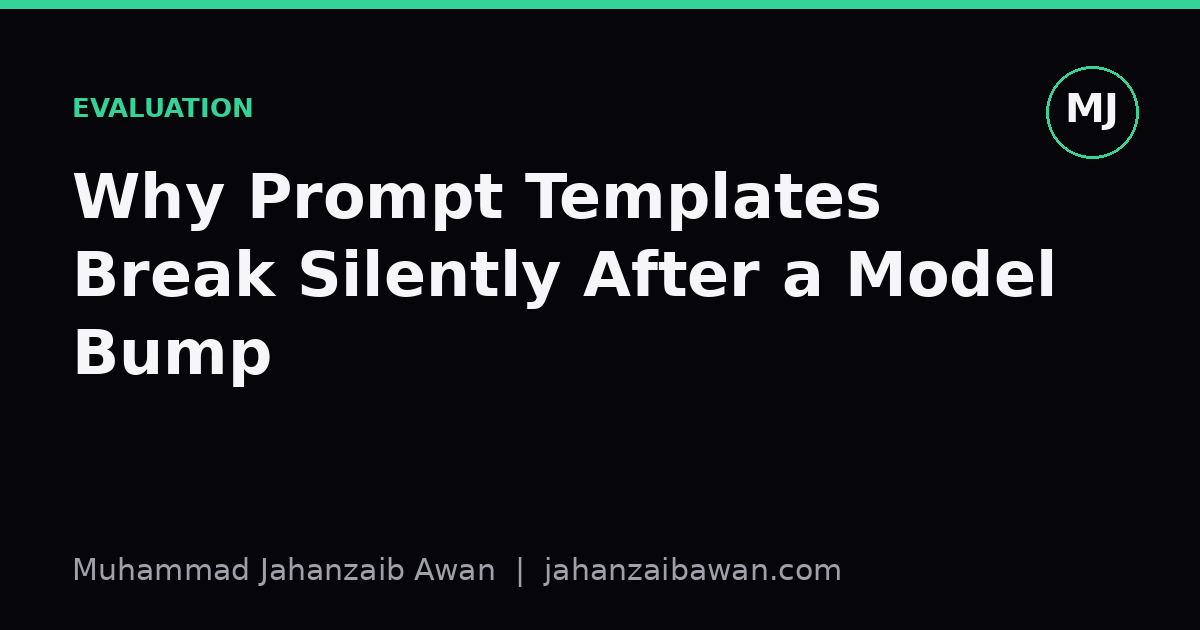
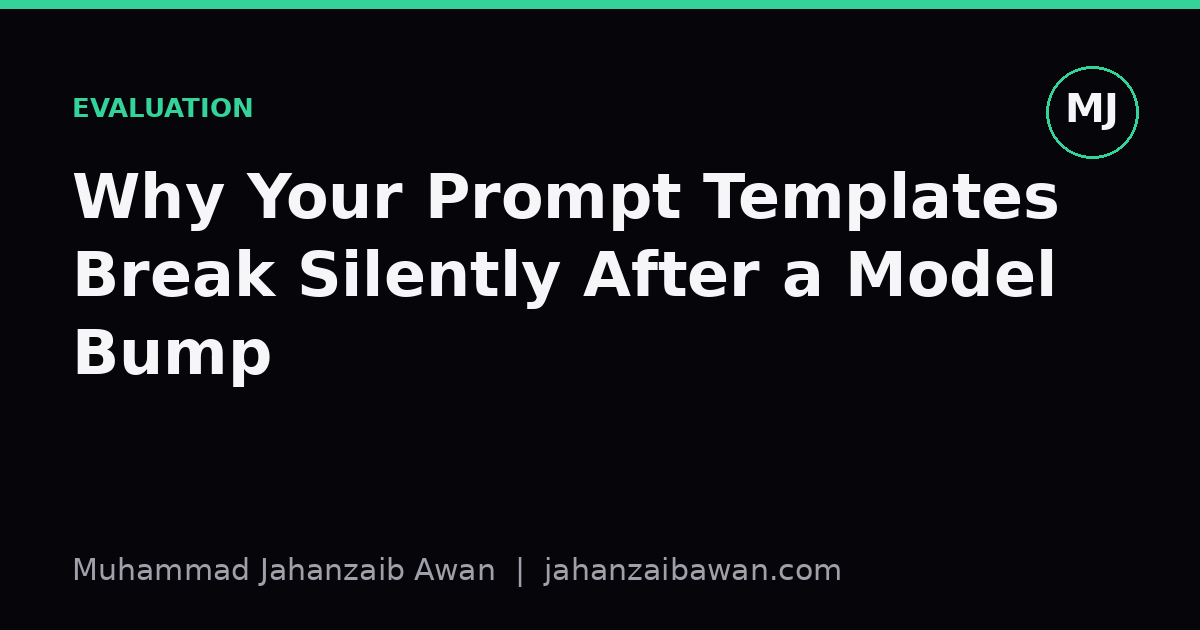
chore: auto blog post (2026-11-11)

Changed region(s): [[0.185, 0.2714, 0.8942, 0.3619]]

diff --git a/blog/prompt-templates-break-silently.html b/blog/prompt-templates-break-silently.html
@@ -3,21 +3,21 @@
 <head>
 <meta charset="UTF-8">
 <meta name="viewport" content="width=device-width, initial-scale=1.0">
-<title>Why Prompt Templates Break Silently After a Model Bump | Muhammad Jahanzaib Awan</title>
-<meta name="description" content="An examination of why prompt templates degrade silently after model updates, and how leakage-aware evaluation habits catch the drift before users do.">
+<title>Why Your Prompt Templates Break Silently After a Model Bump | Muhammad Jahanzaib Awan</title>
+<meta name="description" content="Why prompt templates degrade silently after a model version upgrade, and how leakage-aware, format-sensitive evaluation catches it before users do.">
 <meta name="author" content="Muhammad Jahanzaib Awan">
-<meta name="keywords" content="prompt engineering, LLM evaluation, prompt drift, model versioning, regression testing, NLP reliability, silent failure, model updates, Jahanzaib, Jahanzaib Awan, Muhammad Jahanzaib, Muhammad Jahanzaib Awan">
+<meta name="keywords" content="prompt engineering, prompt templates, LLM evaluation, model drift, regression testing, prompt brittleness, model versioning, NLP evaluation, Jahanzaib, Jahanzaib Awan, Muhammad Jahanzaib, Muhammad Jahanzaib Awan">
 <meta name="robots" content="index, follow, max-image-preview:large, max-snippet:-1">
 <meta property="og:type" content="article">
 <meta property="article:published_time" content="2026-11-11">
 <meta property="og:site_name" content="Muhammad Jahanzaib Awan">
-<meta property="og:title" content="Why Prompt Templates Break Silently After a Model Bump">
-<meta property="og:description" content="An examination of why prompt templates degrade silently after model updates, and how leakage-aware evaluation habits catch the drift before users do.">
+<meta property="og:title" content="Why Your Prompt Templates Break Silently After a Model Bump">
+<meta property="og:description" content="Why prompt templates degrade silently after a model version upgrade, and how leakage-aware, format-sensitive evaluation catches it before users do.">
 <meta property="og:image" content="https://jahanzaibawan.com/assets/blog/prompt-templates-break-silently.png">
 <meta property="og:url" content="https://jahanzaibawan.com/blog/prompt-templates-break-silently.html">
 <meta property="og:locale" content="en_GB">
 <meta name="twitter:card" content="summary_large_image">
-<meta name="twitter:title" content="Why Prompt Templates Break Silently After a Model Bump">
+<meta name="twitter:title" content="Why Your Prompt Templates Break Silently After a Model Bump">
 <meta name="twitter:image" content="https://jahanzaibawan.com/assets/blog/prompt-templates-break-silently.png">
 <link rel="canonical" href="https://jahanzaibawan.com/blog/prompt-templates-break-silently.html">
 <link rel="alternate" type="application/rss+xml" title="Muhammad Jahanzaib Awan — Writing" href="https://jahanzaibawan.com/feed.xml">
@@ -29,8 +29,8 @@
 {
   "@context": "https://schema.org",
   "@type": "BlogPosting",
-  "headline": "Why Prompt Templates Break Silently After a Model Bump",
-  "description": "An examination of why prompt templates degrade silently after model updates, and how leakage-aware evaluation habits catch the drift before users do.",
+  "headline": "Why Your Prompt Templates Break Silently After a Model Bump",
+  "description": "Why prompt templates degrade silently after a model version upgrade, and how leakage-aware, format-sensitive evaluation catches it before users do.",
   "url": "https://jahanzaibawan.com/blog/prompt-templates-break-silently.html",
   "image": "https://jahanzaibawan.com/assets/blog/prompt-templates-break-silently.png",
   "datePublished": "2026-11-11",
@@ -49,7 +49,7 @@
   "itemListElement": [
     { "@type": "ListItem", "position": 1, "name": "Home", "item": "https://jahanzaibawan.com/" },
     { "@type": "ListItem", "position": 2, "name": "Writing", "item": "https://jahanzaibawan.com/blog.html" },
-    { "@type": "ListItem", "position": 3, "name": "Why Prompt Templates Break Silently After a Model Bump", "item": "https://jahanzaibawan.com/blog/prompt-templates-break-silently.html" }
+    { "@type": "ListItem", "position": 3, "name": "Why Your Prompt Templates Break Silently After a Model Bump", "item": "https://jahanzaibawan.com/blog/prompt-templates-break-silently.html" }
   ]
 }
 </script>
@@ -63,13 +63,13 @@
   <div class="phero">
     <a class="back" href="../blog.html">← All writing</a>
     <div class="tag">Evaluation · 5 min read · 11 Nov 2026</div>
-    <h1>Why Prompt Templates Break Silently After a Model Bump</h1>
-    <p class="lede">A prompt that scored well last month can quietly degrade when the underlying model changes, and nothing in your logs will shout about it.</p>
+    <h1>Why Your Prompt Templates Break Silently After a Model Bump</h1>
+    <p class="lede">A prompt that worked perfectly on one model version can quietly degrade on the next, and your evaluation suite often will not tell you until a user does.</p>
   </div>
 
-  <img src="../assets/blog/prompt-templates-break-silently.png" alt="Cover image for the article: Why Prompt Templates Break Silently After a Model Bump" style="width:100%;height:auto;border-radius:14px;border:1px solid var(--line2);margin:6px 0 20px;display:block">
+  <img src="../assets/blog/prompt-templates-break-silently.png" alt="Cover image for the article: Why Your Prompt Templates Break Silently After a Model Bump" style="width:100%;height:auto;border-radius:14px;border:1px solid var(--line2);margin:6px 0 20px;display:block">
 
-<section class='psec reveal'><h2>The failure mode nobody logs</h2><p>Most engineering failures announce themselves. A service returns a 500, a container restarts, a dashboard turns red. Prompt template failures after a model version bump are different: the API call still succeeds, the response is still well formed text, and nothing in your error monitoring fires. The output is simply worse in a way that only shows up when a human reads it carefully, or when a downstream metric drifts over weeks rather than seconds.</p><p>This matters because prompt templates are brittle in a specific way that code is not. A function either compiles or it does not. A prompt is a set of instructions interpreted by a statistical model, and that interpretation depends on training data, fine tuning choices, and alignment tuning that you do not control and often cannot see. When the provider swaps the model behind an endpoint, or you upgrade to a newer version for cost or speed reasons, you are not patching a dependency. You are replacing the thing that reads your instructions with a different reader.</p><p>I think of this as an evaluation problem disguised as a prompting problem. People reach for prompt tweaks, adding more emphasis, more examples, more capitalised words, when the real issue is that they never had a test suite that would have caught the regression in the first place. The fix is not a better prompt. It is a better harness around the prompt.</p></section><section class='psec reveal'><h2>A worked example of silent drift</h2><p>Suppose you have a template that extracts a delivery date from a customer email and returns it in ISO format, instructed with a single line: "Extract the delivery date and return only YYYY-MM-DD." On the older model, this worked reliably across a few hundred manually checked emails, say ninety seven out of a hundred correct, with the three failures being genuinely ambiguous emails that mentioned two dates.</p><p>You bump to the newer version of the same model family because it is cheaper per token. Nothing in your integration tests changes, because your integration tests check that the response matches a date pattern, not that the date is correct. The new model is slightly more conversational by default and starts returning "The delivery date is 2024-03-15" instead of just the date. Your regex still extracts a date shaped string because it is embedded in the sentence, so the test passes. But now imagine the model also became subtly more willing to guess a date from vague phrasing like "sometime next week" rather than flagging it as ambiguous. Accuracy on the ambiguous cases does not improve, it gets worse, because the new model confidently invents a specific date instead of declining. Your pattern matching test never sees this because it only checks format, not correctness, and your overall accuracy quietly drops from ninety seven percent to something like ninety one percent, invisible unless you rerun your labelled set.</p><p>The insidious part is that ninety one percent still looks fine on a dashboard that only tracks "did we get a parseable date back." The metric that would show the regression, correctness against ground truth, is the one nobody re-measured after the bump, because re-measuring felt unnecessary: the prompt did not change, so why would the result change.</p></section><figure style='margin:24px 0'><img src='../assets/blog/body/prompt-templates-break-silently-1.jpg' alt='whiteboard with equations' loading='lazy' style='width:100%;height:auto;border-radius:12px;border:1px solid var(--line2);display:block'></figure><section class='psec reveal'><h2>Why this is really a leakage and baseline problem</h2><p>The deeper issue is that most prompt evaluation setups have no proper held out test set that gets rerun on every model change, in the same way that a machine learning team would rerun a validation set after retraining. When you tested your template originally, you likely iterated on the same handful of examples you used to judge it, tweaking wording until those examples passed. That is leakage in the same sense as tuning hyperparameters on your test set: the prompt is overfit to the examples you happened to eyeball, not to the underlying task.</p><p>A model version bump exposes this overfitting instantly, because the new model does not share whatever quirks the old model had that your prompt was implicitly compensating for. If your original prompt worked partly because the old model had a bias towards short, literal answers, and you never tested against cases that would expose different behaviour, you had no way of knowing your success was partly luck of the model, not robustness of the prompt.</p><p>The practical fix mirrors standard machine learning hygiene: keep a fixed, reasonably sized labelled evaluation set that you never used to write the prompt, store the exact model version and prompt text alongside every evaluation run, and treat any model swap, even a minor version number change, as a trigger to rerun that evaluation before deploying. This is not exotic advice, it is the same discipline as not touching your test set until the end of a project, just applied to prompts instead of model weights.</p><p>It also helps to separate format checks from correctness checks explicitly. A test that only verifies the shape of the output, like "is this valid JSON" or "does this match a date pattern", will survive almost any model change and give false confidence. A test that checks the content against known correct answers is the one that actually catches drift, and it is worth the extra effort to build even a small set of forty or fifty hand labelled cases rather than relying on format checks alone.</p></section><section class='psec reveal'><h2>What to actually do about it</h2><p>Treat every prompt template as a small model with its own regression suite. Before switching model versions, run the fixed evaluation set and compare accuracy, not just pass rate on format. Log the model identifier string with every production response, so that if quality complaints come in, you can correlate them with a specific version rather than guessing weeks later which update caused the problem.</p><p>Build a handful of deliberately adversarial or ambiguous cases into your evaluation set, not just clean examples. These are the ones most likely to expose behavioural shifts, because models tend to diverge most on edge cases rather than easy ones. Finally, resist the urge to patch a regression with more prompt text the moment you notice it. First confirm with your evaluation set that the new wording actually fixes the underlying error rate rather than just fixing the one example you happened to notice, otherwise you are back to overfitting the prompt to a single case and setting up the next silent failure.</p></section><figure style='margin:24px 0'><img src='../assets/blog/body/prompt-templates-break-silently-2.jpg' alt='server rack blinking lights' loading='lazy' style='width:100%;height:auto;border-radius:12px;border:1px solid var(--line2);display:block'></figure>
+<section class='psec reveal'><h2>The problem hides behind a passing eyeball test</h2><p>You write a prompt template, run it against a handful of examples, the outputs look sensible, and you ship it. Three months later the model provider bumps a version, you redeploy without a second thought, and somewhere in your logs the outputs have quietly shifted shape. Not catastrophically wrong, just different enough that downstream parsing breaks, or a tone that used to be concise now rambles, or a JSON field that used to always appear now sometimes gets omitted. Nobody notices for days because nothing threw an error. The system kept running, just slightly worse.</p><p>This is the core issue with prompt templates: they are not code in the traditional sense, they are instructions aimed at a statistical system whose behaviour depends on training data, fine-tuning choices, and safety tuning that you do not control and often cannot see. A prompt is a contract negotiated with a specific model checkpoint. When the checkpoint changes, the contract is renegotiated whether you asked for it or not, and the new terms are rarely documented in a way that maps cleanly onto your use case.</p><p>The reason this breaks silently rather than loudly is that most teams evaluate prompts the way they evaluate a feature: run it a few times, read the outputs, decide it looks fine. That is a vibe check, not a measurement. A vibe check cannot detect a five percent shift in how often the model includes a required field, because five percent of outputs looking fine is exactly what a human skimming ten examples expects to see even when the underlying rate has moved.</p></section><section class='psec reveal'><h2>A concrete case: the JSON field that goes missing</h2><p>Suppose you have a template asking a model to extract a customer complaint into a structured object with fields for category, sentiment, and a one-line summary. On the old model version, across a held-out set of two hundred real complaints, the summary field was present and non-empty in ninety-eight percent of outputs. You built a lightweight parser downstream that assumes the field exists, with a fallback that logs a warning if it does not. Fine, two percent failure is tolerable, the warnings barely fire.</p><p>After the version bump, you rerun the same two hundred examples. The category and sentiment fields are still reliably present, but the summary field now gets replaced by a longer explanatory paragraph in about fifteen percent of cases, because the new model has a stronger tendency to add caveats and context around its structured answers unless explicitly told not to. Your parser's fallback logs a warning for each of those, but nobody is watching that log in real time, so the warning rate climbs from two percent to fifteen percent and sits there unnoticed. Fifteen percent of customer complaints are now silently losing their summary field, and a human downstream has to manually reconstruct it, which they eventually notice is happening a lot without quite knowing why.</p><p>The fix, once you see it, is almost embarrassingly simple: add an explicit instruction and a stricter output constraint, then re-measure. But you only find the fix because you measured the field presence rate as a number on a fixed test set, compared old versus new, and saw fifteen percent instead of two percent. If you had just read ten outputs and nodded, you would have seen summaries in all ten, because fifteen percent failure means roughly eight and a half out of ten still succeed, and a small eyeball sample cannot reliably distinguish two percent from fifteen percent.</p></section><figure style='margin:24px 0'><img src='../assets/blog/body/prompt-templates-break-silently-1.jpg' alt='magnifying glass over document' loading='lazy' style='width:100%;height:auto;border-radius:12px;border:1px solid var(--line2);display:block'></figure><section class='psec reveal'><h2>Why this is a measurement problem, not a prompting problem</h2><p>The deeper issue is that prompt behaviour is probabilistic and version-dependent, so the only honest way to detect regressions is a fixed evaluation set with fixed metrics, run before and after every version change, with no peeking at the new model's outputs before you decide what counts as success. If you design your test cases after looking at how the new model responds, you have leaked information from the thing you are trying to measure into the measurement itself, and your evaluation will flatter whichever version you tuned it against.</p><p>A practical setup looks like this: keep a held-out set of realistic inputs, ideally pulled from actual production traffic rather than hand-crafted examples, since hand-crafted examples tend to be cleaner than reality and hide exactly the messy edge cases where formatting drifts first. Define metrics that are structural rather than purely qualitative where possible: field presence rate, schema validity rate, length distribution, refusal rate. These are boring, cheap to compute, and brutally effective at catching silent drift because they do not depend on subjective judgement.</p><p>Run that same set against the old and new model version with the identical template, and diff the metrics, not just the text. A twelve-point drop in schema validity is a clear signal even if every individual output still reads as plausible English. Treat any such regression as a blocking issue, the same way you would treat a failing unit test, rather than something to investigate later. If you only have time to do one thing, do this one, because it converts a vague worry about model drift into a specific, falsifiable comparison, and specific falsifiable comparisons are the only thing that reliably prevents silent regressions from reaching users.</p></section><section class='psec reveal'><h2>The practical takeaway</h2><p>Prompt templates are brittle not because prompting is flawed as a technique, but because they are evaluated too informally relative to how much they are trusted. Treat every model version bump as a deployment of a new, untested component, run your fixed held-out set through it, compare structural metrics rather than impressions, and only ship the update once the numbers, not the vibe, say it is safe. The discipline is unglamorous, but it is the difference between catching a regression in a test run and catching it from a confused customer.</p></section><figure style='margin:24px 0'><img src='../assets/blog/body/prompt-templates-break-silently-2.jpg' alt='server rack warning light' loading='lazy' style='width:100%;height:auto;border-radius:12px;border:1px solid var(--line2);display:block'></figure>
 
   <div class="pnav">
     <a href="../blog.html">← All writing</a>

diff --git a/blog.html b/blog.html
@@ -36,7 +36,7 @@
   "author": { "@type": "Person", "name": "Muhammad Jahanzaib Awan", "url": "https://jahanzaibawan.com/" },
   "publisher": { "@type": "Person", "name": "Muhammad Jahanzaib Awan" },
   "blogPost": [
-    { "@type": "BlogPosting", "headline": "Why Prompt Templates Break Silently After a Model Bump", "url": "https://jahanzaibawan.com/blog/prompt-templates-break-silently.html", "datePublished": "2026-11-11", "author": { "@type": "Person", "@id": "https://jahanzaibawan.com/#person", "name": "Muhammad Jahanzaib Awan" } },
+    { "@type": "BlogPosting", "headline": "Why Your Prompt Templates Break Silently After a Model Bump", "url": "https://jahanzaibawan.com/blog/prompt-templates-break-silently.html", "datePublished": "2026-11-11", "author": { "@type": "Person", "@id": "https://jahanzaibawan.com/#person", "name": "Muhammad Jahanzaib Awan" } },
     { "@type": "BlogPosting", "headline": "What an Evaluation Harness Should Log Beyond the Score", "url": "https://jahanzaibawan.com/blog/beyond-the-final-score.html", "datePublished": "2026-11-10", "author": { "@type": "Person", "@id": "https://jahanzaibawan.com/#person", "name": "Muhammad Jahanzaib Awan" } },
     { "@type": "BlogPosting", "headline": "Grouped and Stratified Splits: Picking the Right One", "url": "https://jahanzaibawan.com/blog/grouped-and-stratified-splits.html", "datePublished": "2026-11-10", "author": { "@type": "Person", "@id": "https://jahanzaibawan.com/#person", "name": "Muhammad Jahanzaib Awan" } },
     { "@type": "BlogPosting", "headline": "Why Fine-Tuning Results Vary Run to Run, Honestly Reported", "url": "https://jahanzaibawan.com/blog/why-fine-tuning-results-vary.html", "datePublished": "2026-11-09", "author": { "@type": "Person", "@id": "https://jahanzaibawan.com/#person", "name": "Muhammad Jahanzaib Awan" } },
@@ -325,11 +325,11 @@
 <!--POSTS:START-->
     <a class="pcard reveal" href="blog/prompt-templates-break-silently.html" style="--hc:var(--a4)">
       <span class="spot"></span>
-      <div class="thumb"><img src="assets/blog/prompt-templates-break-silently.png" alt="Cover image for the article: Why Prompt Templates Break Silently After a Model Bump" loading="lazy"></div>
+      <div class="thumb"><img src="assets/blog/prompt-templates-break-silently.png" alt="Cover image for the article: Why Your Prompt Templates Break Silently After a Model Bump" loading="lazy"></div>
       <div class="pc">
         <div class="tag">Evaluation · 5 min read</div>
-        <h3>Why Prompt Templates Break Silently After a Model Bump</h3>
-        <p>Model version bumps rarely crash your pipeline. They just shift behaviour enough that your prompt template stops working the way you tested it.</p>
+        <h3>Why Your Prompt Templates Break Silently After a Model Bump</h3>
+        <p>Model version bumps change tokenisation, formatting habits, and instruction sensitivity. If your evals do not probe for that, your prompt template fails silently in production.</p>
         <span class="metric">11 Nov 2026</span>
         <span class="more">Read →</span>
       </div>
